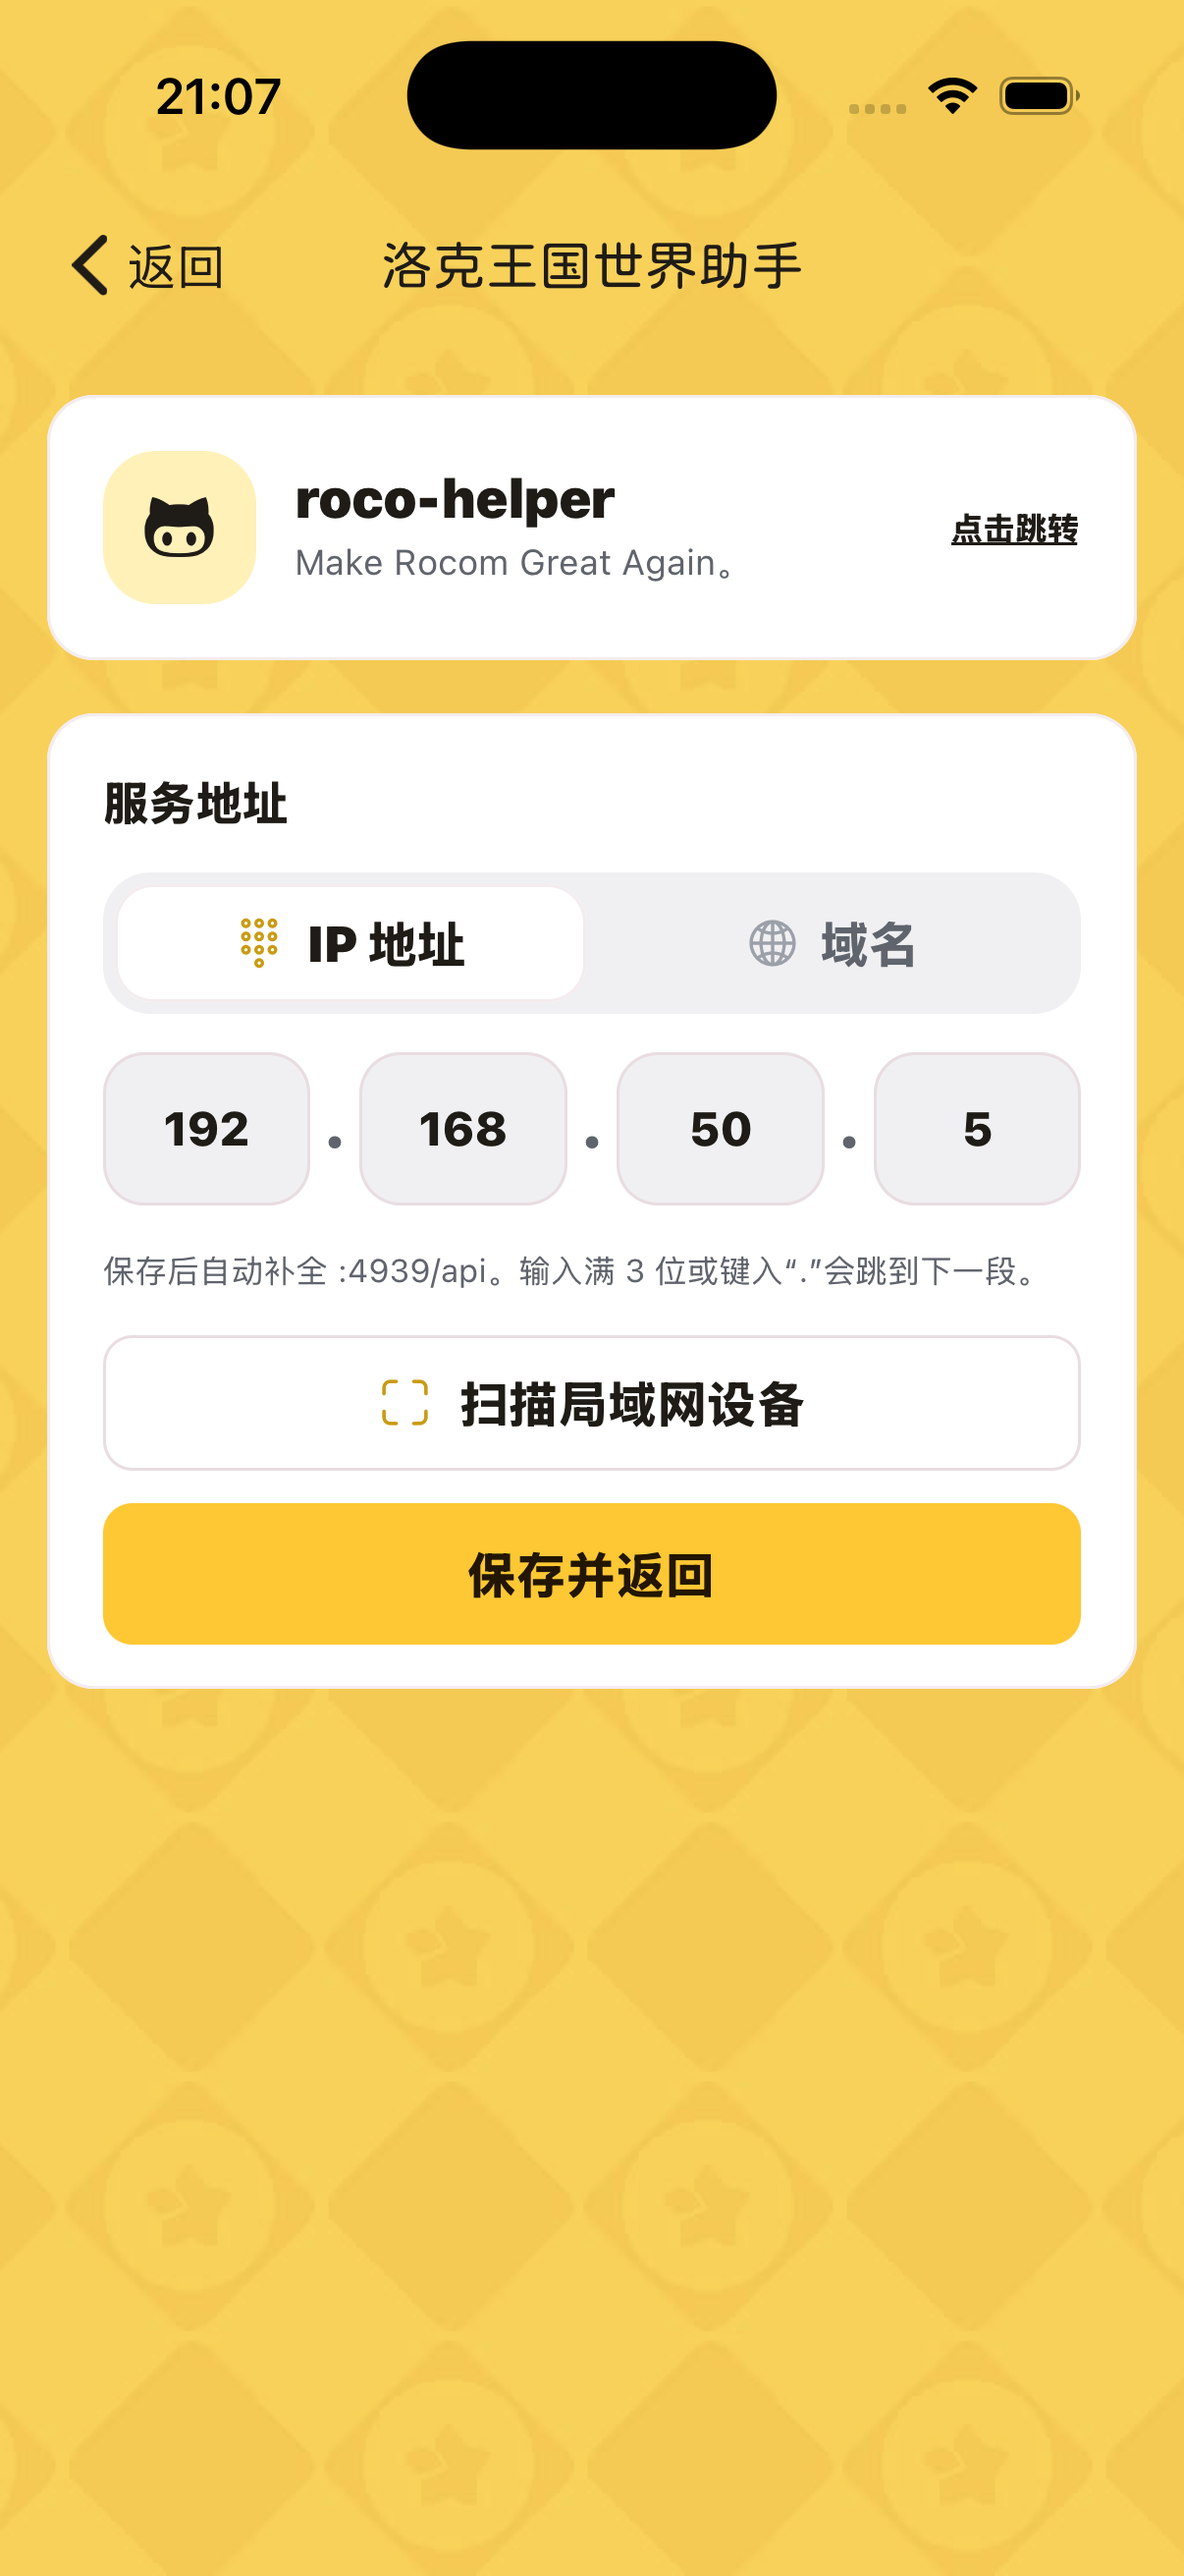
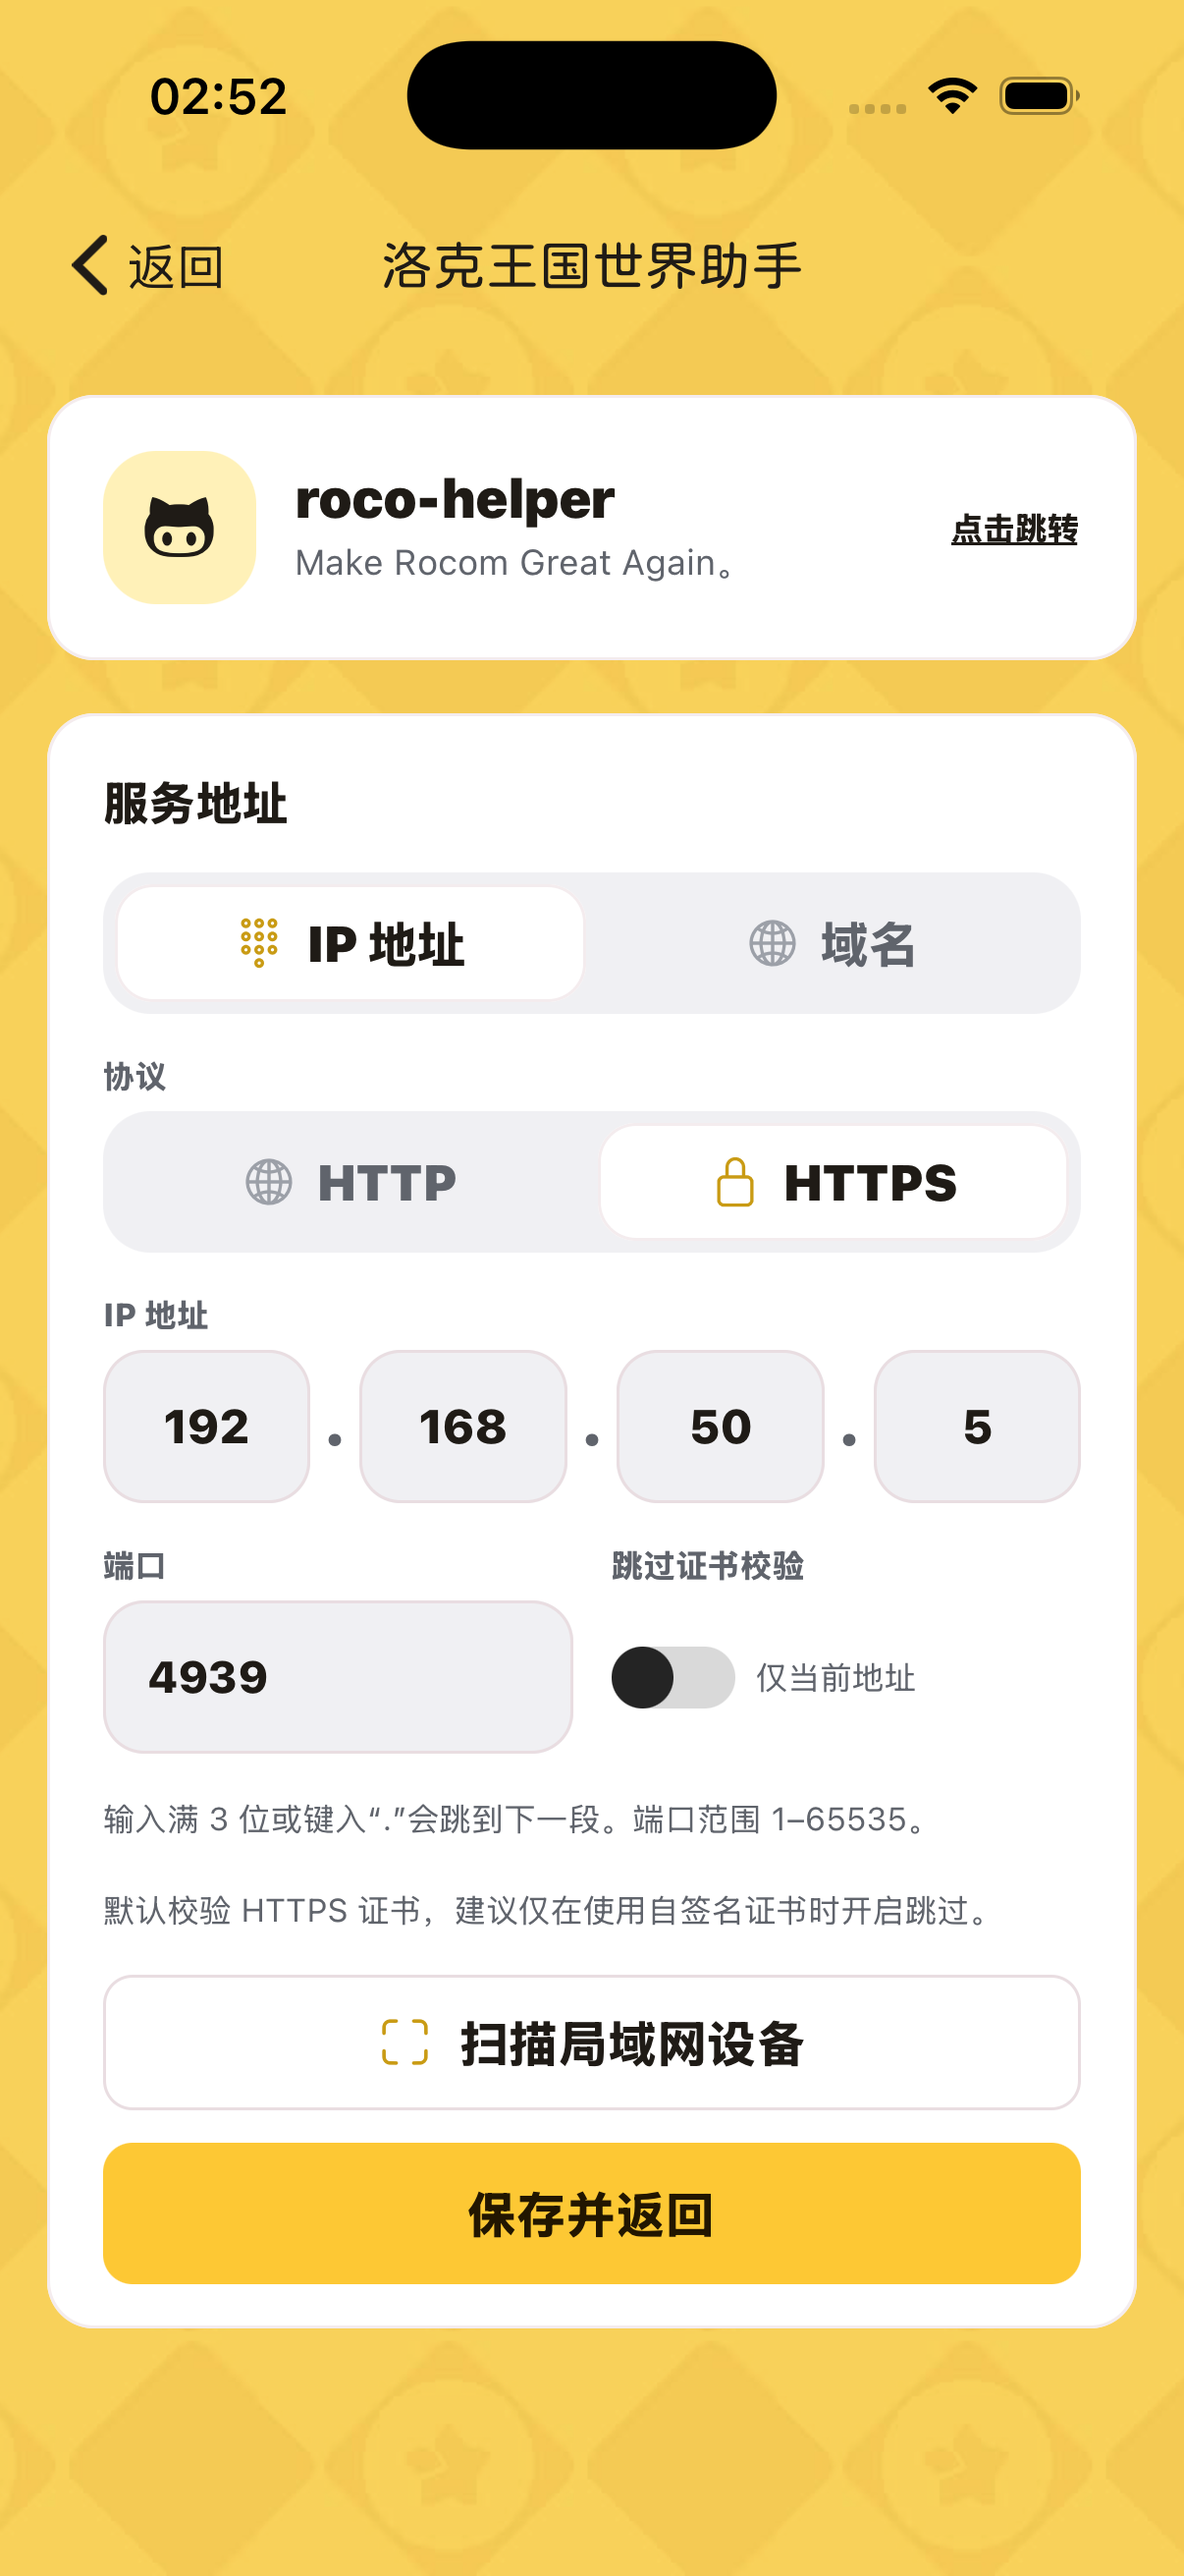
docs: 优化 README 及项目说明

Changed region(s): [[0.0307, 0.4016, 0.9818, 0.9268], [0.1227, 0.0309, 0.2454, 0.0618], [0.8284, 0.4634, 0.859, 0.5252]]

diff --git a/readme.md b/readme.md
@@ -1,6 +1,6 @@
 # 洛克图鉴 APP
 
-洛克图鉴是一款面向《洛克王国：世界》玩家的图鉴应用，提供精灵、技能、蛋组等资料查询，以及异色记录和相关攻略辅助功能。
+洛克图鉴是一款面向《洛克王国：世界》玩家的图鉴应用，提供精灵、技能、蛋组等资料查询，以及异色收集记录和攻略辅助功能。
 
 ## 功能
 
@@ -11,40 +11,51 @@
 - 蛋组图鉴
 - 技能图鉴
 - 异色记录
-  - 支持使用不同身份卡区分记录
+  - 支持按身份卡区分记录
   - 支持多设备云端同步
-  - 展示已获取的赛季异色图鉴
-  - 支持手动和全自动异色记录
-  - 提供数据统计分析
+  - 记录已获取的赛季异色
+  - 支持手动和自动记录
+  - 提供数据统计
 - 远行商人
 - 地图广场
   - 采矿路线
 - PVP 阵容
 - 配种模拟器
 
+## 安装说明
+
+目前提供 iOS IPA 版本，需要使用 [AltStore](https://altstore.io/) 完成自签名后安装。
+
 ## 异色记录自动化配置
 
-自动化记录功能需要配合 [roco-helper（洛克助手）](https://github.com/h3110w0r1d-y/rocom-helper) 使用。
+自动化异色记录需要配合
+[roco-helper（洛克助手）](https://github.com/h3110w0r1d-y/rocom-helper) 使用。
+请先完成 `roco-helper` 的配置并启动服务。
 
-1. 配置 `roco-helper`（洛克助手）。
-2. 打开设置并点击 `roco-helper`。
+1. 打开洛克图鉴的系统设置，在“网络云端设置”中点击 `roco-helper`。
 
-   ![打开 roco-app 设置](./public/roco-helper/01.png)
+   ![打开 roco-helper 设置](./public/roco-helper/01.png)
 
-3. 配置服务地址：
-   - 可手动输入洛克王国世界助手的服务端 IP 地址。
+2. 配置服务地址：
+   - 可以手动输入洛克王国世界助手的服务端 IP 地址。
    - 如果不清楚 IP 地址，可以扫描局域网设备。应用会自动扫描当前网关下的 `4939` 端口，并查找已正确部署 `users` 接口的设备。若设备处于不同网段，请手动设置 IP 地址。
+   - 如果 `roco-helper` 使用 HTTPS，请选择 HTTPS 协议；使用自签名证书时，还需要开启“跳过证书校验”，否则可能无法扫描或访问服务。
 
    ![配置服务地址](./public/roco-helper/02.png)
 
-4. 点击新增记录，然后点击页面右下角的齿轮按钮，配置需要记录的 UID 角色。
+3. 点击“新增记录”，再点击页面右下角的齿轮按钮，配置需要记录的 UID 角色。
 
    ![配置 UID 角色](./public/roco-helper/03.png)
 
-   多账号场景下，请选择正确的角色，否则可能无法正确获取数据。连通后，角色以及设置齿轮会显示绿色圆点。如果开启了双牌通知、齿轮右上角会有红色圆点。
+   多账号场景下，请选择正确的角色，否则可能无法正确获取数据。连接成功后，角色和设置按钮旁会显示绿色圆点；如果开启了双牌通知，齿轮右上角会显示红色圆点。
 
 ## 更新日志
 
+### 1.1.0
+
+- 新增跳过 HTTPS 证书校验功能
+- 新增 iOS IPA 版本
+
 ### 1.0.7
 
-feat: 增加http、https选项
+- 增加 HTTP/HTTPS 协议选项
